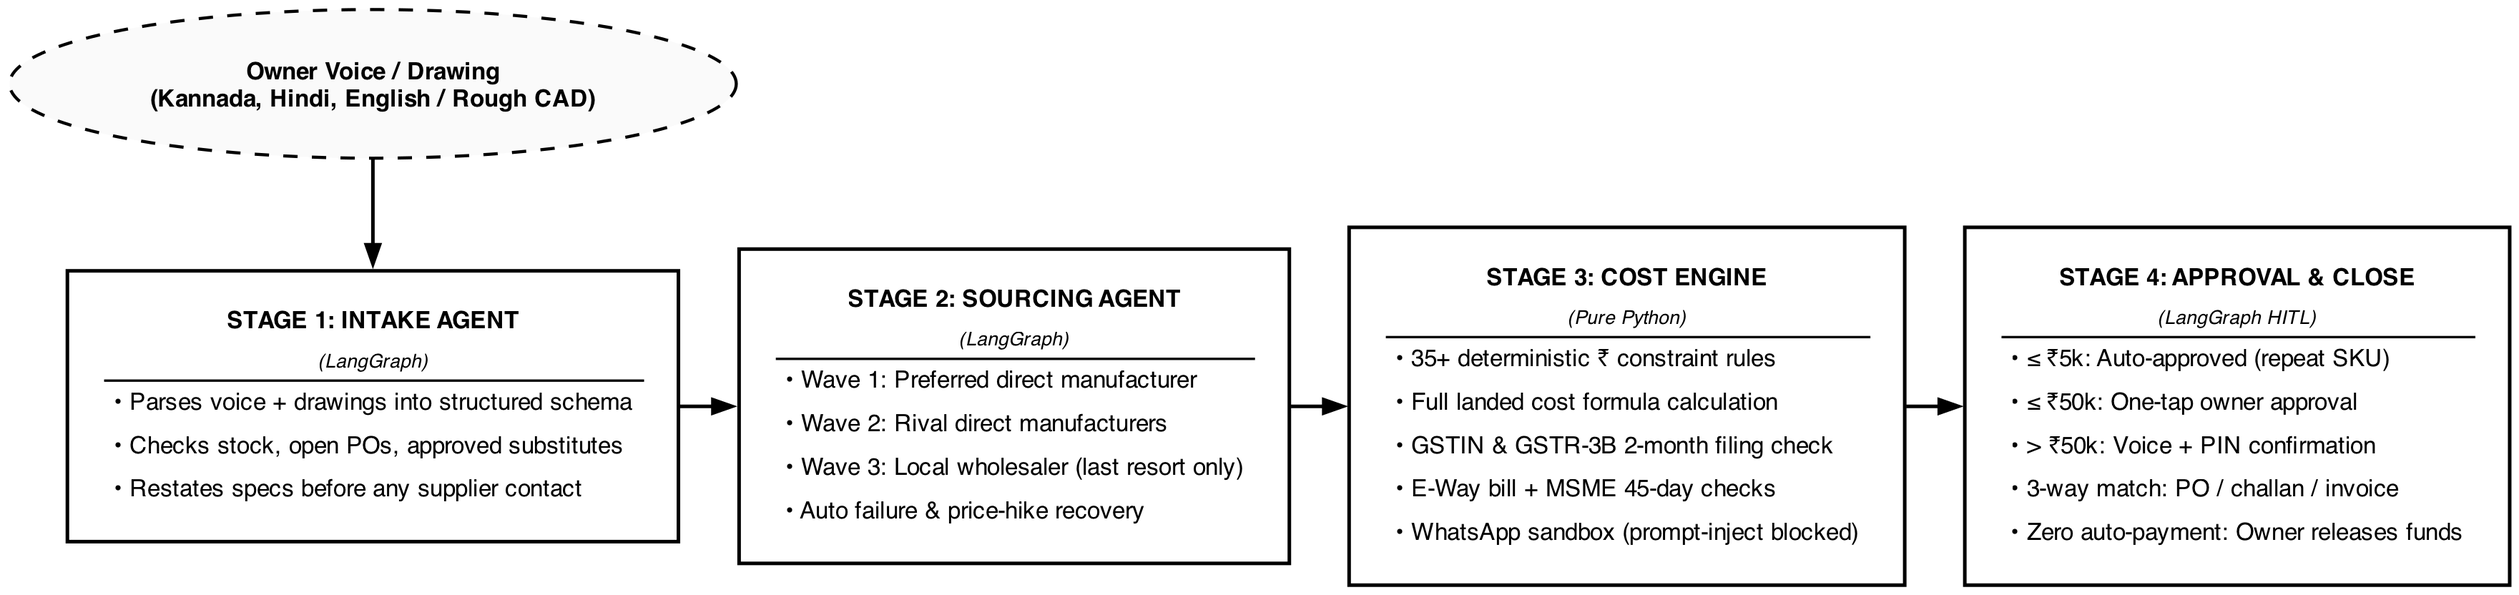
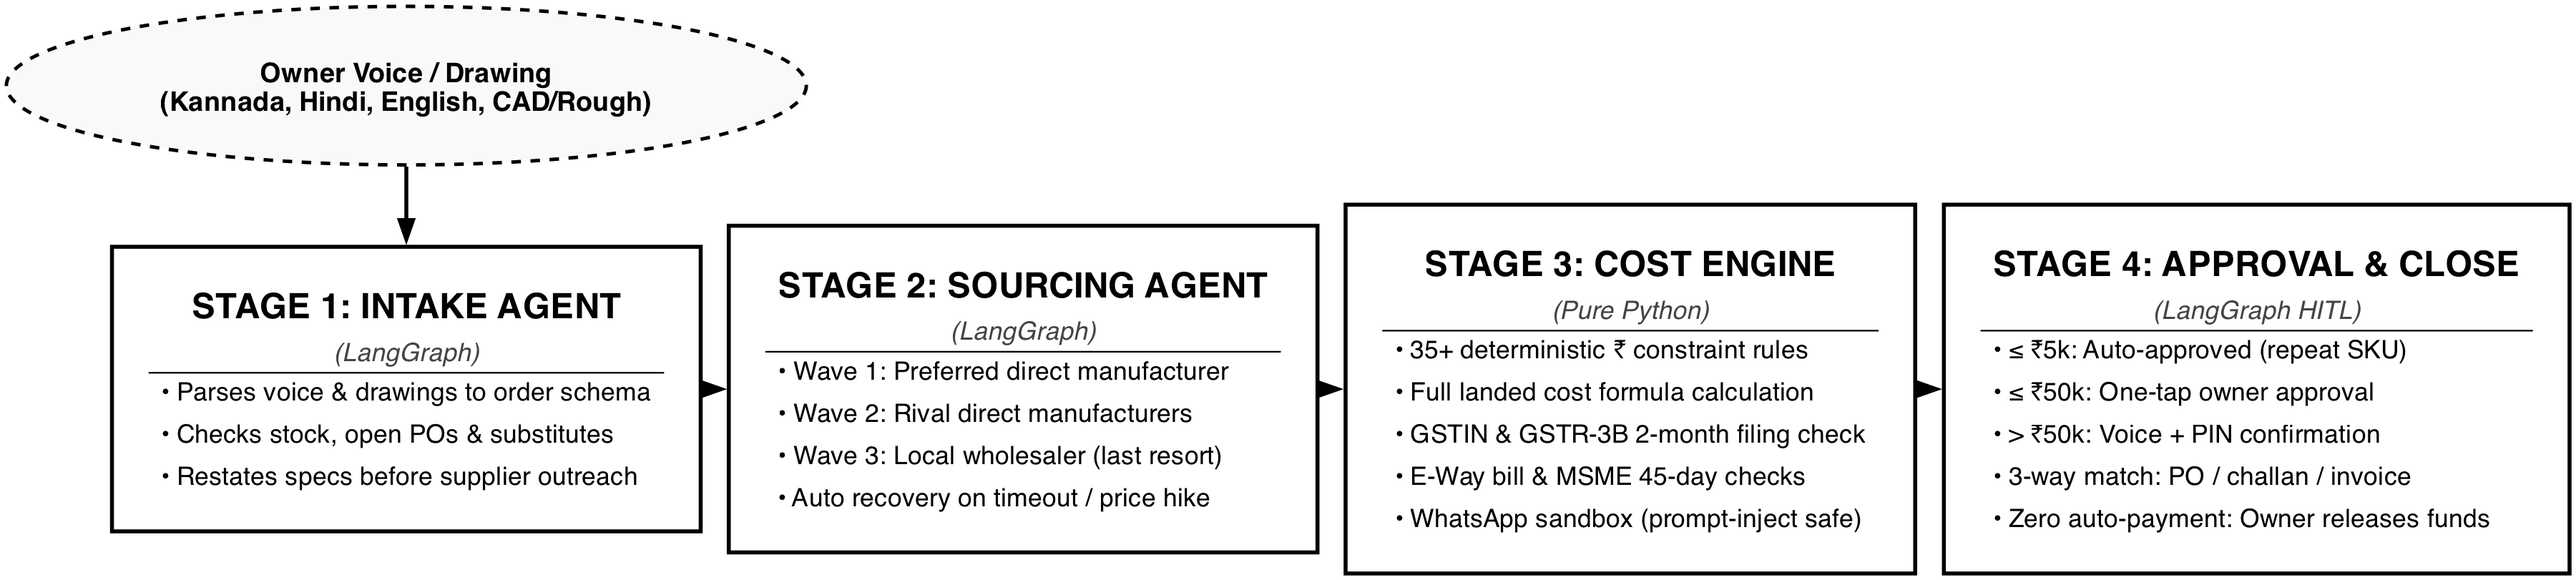
ps 4.1

diff --git a/README.md b/README.md
@@ -74,6 +74,10 @@ Risk-Adjusted Cost (₹) =
 
 Post-delivery: 3-way match (PO / challan / invoice), 24–48 hr damage alert, GSTR-2B recon, supplier rating updated.
 
+### System Architecture Flowchart
+
+![System Architecture Flowchart](docs/flowchart.png)
+
 ---
 
 ## 4. Safety & Control Boundaries
